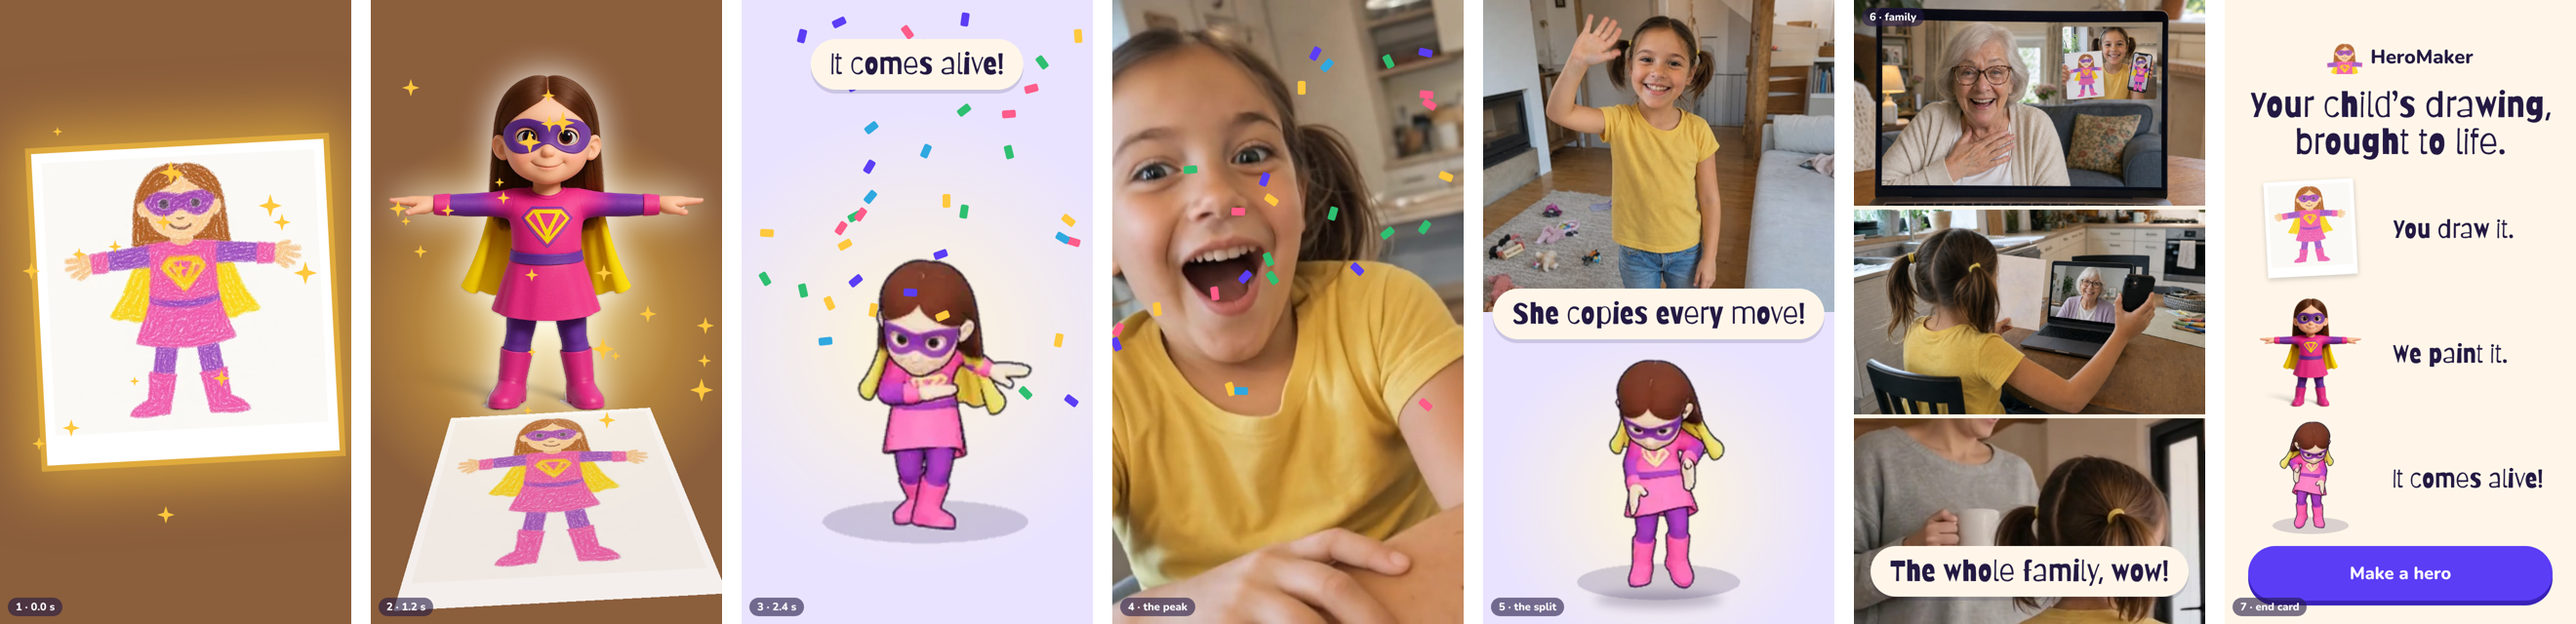
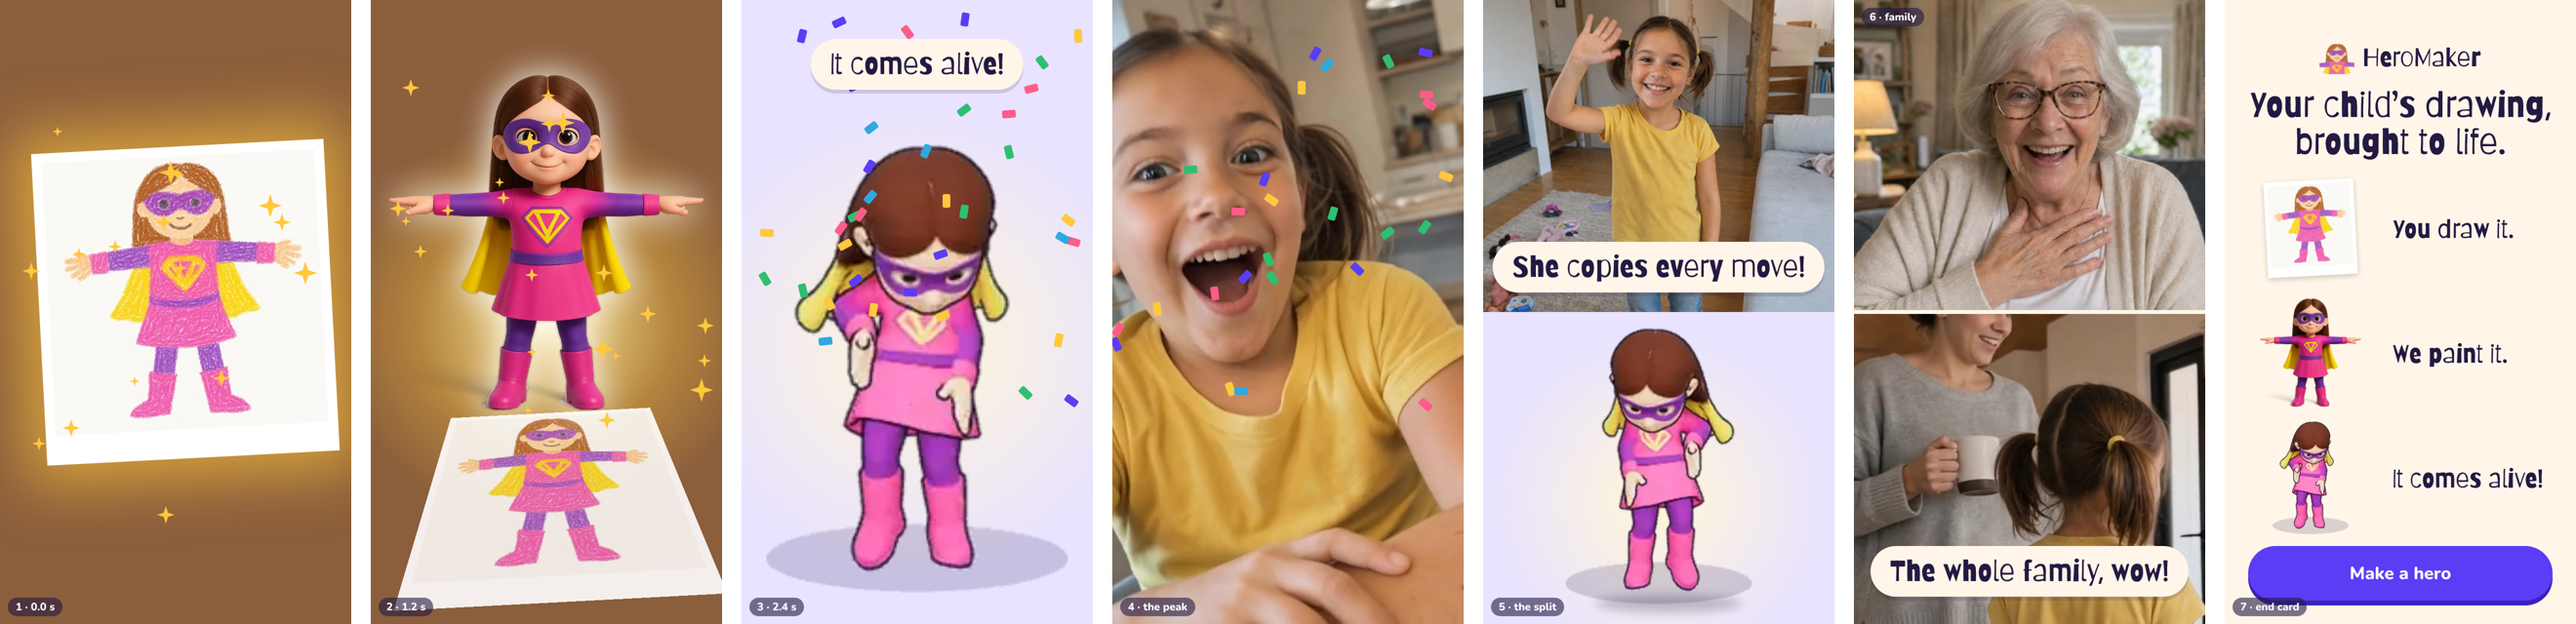
Film direction: fixes from Dana's gate (no frame in frame, split caption, hero size, wordmark)
Claude-Session: https://claude.ai/code/session_01XZmifdbmRRBBAErrtve1b5

diff --git a/marketing/film/direction/f3.html b/marketing/film/direction/f3.html
@@ -1,1 +1,1 @@
-<!doctype html><html><head><meta charset=utf-8><link href="https://fonts.googleapis.com/css2?family=Barriecito&family=Nunito:wght@700;800&display=swap" rel=stylesheet><link rel=stylesheet href="base.css"><style>.lil{background:radial-gradient(circle at 50% 55%,#fff6d6,#e9e3ff 60%)}.v{position:absolute;left:50%;bottom:40px;height:560px;transform:translateX(-50%)}</style></head><body><div class="full lil"></div><img class="v" src="violet-alive.webp"><div class="conf" style="left:98px;top:227px;background:#ff5c8a;transform:rotate(34deg)"></div><div class="conf" style="left:128px;top:195px;background:#2fa8e0;transform:rotate(40deg)"></div><div class="conf" style="left:169px;top:293px;background:#5b3df5;transform:rotate(93deg)"></div><div class="conf" style="left:22px;top:232px;background:#ffc83d;transform:rotate(93deg)"></div><div class="conf" style="left:185px;top:148px;background:#2fa8e0;transform:rotate(24deg)"></div><div class="conf" style="left:224px;top:106px;background:#2fbf71;transform:rotate(53deg)"></div><div class="conf" style="left:58px;top:30px;background:#5b3df5;transform:rotate(14deg)"></div><div class="conf" style="left:86px;top:304px;background:#ffc83d;transform:rotate(155deg)"></div><div class="conf" style="left:20px;top:279px;background:#2fbf71;transform:rotate(149deg)"></div><div class="conf" style="left:127px;top:164px;background:#5b3df5;transform:rotate(31deg)"></div><div class="conf" style="left:270px;top:149px;background:#2fbf71;transform:rotate(166deg)"></div><div class="conf" style="left:102px;top:244px;background:#ffc83d;transform:rotate(61deg)"></div><div class="conf" style="left:224px;top:210px;background:#2fbf71;transform:rotate(9deg)"></div><div class="conf" style="left:112px;top:215px;background:#2fbf71;transform:rotate(63deg)"></div><div class="conf" style="left:331px;top:219px;background:#ffc83d;transform:rotate(127deg)"></div><div class="conf" style="left:96px;top:16px;background:#5b3df5;transform:rotate(65deg)"></div><div class="conf" style="left:129px;top:124px;background:#2fa8e0;transform:rotate(53deg)"></div><div class="conf" style="left:118px;top:213px;background:#ff5c8a;transform:rotate(36deg)"></div><div class="conf" style="left:166px;top:26px;background:#ff5c8a;transform:rotate(144deg)"></div><div class="conf" style="left:59px;top:291px;background:#2fbf71;transform:rotate(167deg)"></div><div class="conf" style="left:334px;top:404px;background:#5b3df5;transform:rotate(126deg)"></div><div class="conf" style="left:198px;top:47px;background:#2fbf71;transform:rotate(53deg)"></div><div class="conf" style="left:293px;top:84px;background:#ff5c8a;transform:rotate(75deg)"></div><div class="conf" style="left:336px;top:241px;background:#ff5c8a;transform:rotate(107deg)"></div><div class="conf" style="left:270px;top:110px;background:#ff5c8a;transform:rotate(86deg)"></div><div class="conf" style="left:200px;top:254px;background:#5b3df5;transform:rotate(71deg)"></div><div class="conf" style="left:321px;top:342px;background:#ffc83d;transform:rotate(11deg)"></div><div class="conf" style="left:202px;top:317px;background:#ffc83d;transform:rotate(68deg)"></div><div class="conf" style="left:341px;top:30px;background:#ffc83d;transform:rotate(176deg)"></div><div class="conf" style="left:325px;top:237px;background:#2fa8e0;transform:rotate(120deg)"></div><div class="conf" style="left:206px;top:199px;background:#ffc83d;transform:rotate(0deg)"></div><div class="conf" style="left:108px;top:80px;background:#5b3df5;transform:rotate(156deg)"></div><div class="conf" style="left:131px;top:59px;background:#2fbf71;transform:rotate(97deg)"></div><div class="conf" style="left:113px;top:281px;background:#5b3df5;transform:rotate(51deg)"></div><div class="conf" style="left:82px;top:343px;background:#2fa8e0;transform:rotate(84deg)"></div><div class="conf" style="left:287px;top:396px;background:#2fbf71;transform:rotate(134deg)"></div><div class="conf" style="left:225px;top:13px;background:#5b3df5;transform:rotate(8deg)"></div><div class="conf" style="left:304px;top:57px;background:#2fbf71;transform:rotate(143deg)"></div><div class="conf" style="left:131px;top:311px;background:#ffc83d;transform:rotate(10deg)"></div><div class="conf" style="left:185px;top:40px;background:#2fa8e0;transform:rotate(2deg)"></div><div class="cap">It comes alive!</div><div class="no">3 · 2.4 s</div></body></html>
+<!doctype html><html><head><meta charset=utf-8><link href="https://fonts.googleapis.com/css2?family=Barriecito&family=Nunito:wght@700;800&display=swap" rel=stylesheet><link rel=stylesheet href="base.css"><style>.lil{background:radial-gradient(circle at 50% 55%,#fff6d6,#e9e3ff 60%)}.v{position:absolute;left:50%;bottom:32px;height:460px;transform:translateX(-50%)}</style></head><body><div class="full lil"></div><img class="v" src="violet-crop.png"><div class="conf" style="left:98px;top:227px;background:#ff5c8a;transform:rotate(34deg)"></div><div class="conf" style="left:128px;top:195px;background:#2fa8e0;transform:rotate(40deg)"></div><div class="conf" style="left:169px;top:293px;background:#5b3df5;transform:rotate(93deg)"></div><div class="conf" style="left:22px;top:232px;background:#ffc83d;transform:rotate(93deg)"></div><div class="conf" style="left:185px;top:148px;background:#2fa8e0;transform:rotate(24deg)"></div><div class="conf" style="left:224px;top:106px;background:#2fbf71;transform:rotate(53deg)"></div><div class="conf" style="left:58px;top:30px;background:#5b3df5;transform:rotate(14deg)"></div><div class="conf" style="left:86px;top:304px;background:#ffc83d;transform:rotate(155deg)"></div><div class="conf" style="left:20px;top:279px;background:#2fbf71;transform:rotate(149deg)"></div><div class="conf" style="left:127px;top:164px;background:#5b3df5;transform:rotate(31deg)"></div><div class="conf" style="left:270px;top:149px;background:#2fbf71;transform:rotate(166deg)"></div><div class="conf" style="left:102px;top:244px;background:#ffc83d;transform:rotate(61deg)"></div><div class="conf" style="left:224px;top:210px;background:#2fbf71;transform:rotate(9deg)"></div><div class="conf" style="left:112px;top:215px;background:#2fbf71;transform:rotate(63deg)"></div><div class="conf" style="left:331px;top:219px;background:#ffc83d;transform:rotate(127deg)"></div><div class="conf" style="left:96px;top:16px;background:#5b3df5;transform:rotate(65deg)"></div><div class="conf" style="left:129px;top:124px;background:#2fa8e0;transform:rotate(53deg)"></div><div class="conf" style="left:118px;top:213px;background:#ff5c8a;transform:rotate(36deg)"></div><div class="conf" style="left:166px;top:26px;background:#ff5c8a;transform:rotate(144deg)"></div><div class="conf" style="left:59px;top:291px;background:#2fbf71;transform:rotate(167deg)"></div><div class="conf" style="left:334px;top:404px;background:#5b3df5;transform:rotate(126deg)"></div><div class="conf" style="left:198px;top:47px;background:#2fbf71;transform:rotate(53deg)"></div><div class="conf" style="left:293px;top:84px;background:#ff5c8a;transform:rotate(75deg)"></div><div class="conf" style="left:336px;top:241px;background:#ff5c8a;transform:rotate(107deg)"></div><div class="conf" style="left:270px;top:110px;background:#ff5c8a;transform:rotate(86deg)"></div><div class="conf" style="left:200px;top:254px;background:#5b3df5;transform:rotate(71deg)"></div><div class="conf" style="left:321px;top:342px;background:#ffc83d;transform:rotate(11deg)"></div><div class="conf" style="left:202px;top:317px;background:#ffc83d;transform:rotate(68deg)"></div><div class="conf" style="left:341px;top:30px;background:#ffc83d;transform:rotate(176deg)"></div><div class="conf" style="left:325px;top:237px;background:#2fa8e0;transform:rotate(120deg)"></div><div class="conf" style="left:206px;top:199px;background:#ffc83d;transform:rotate(0deg)"></div><div class="conf" style="left:108px;top:80px;background:#5b3df5;transform:rotate(156deg)"></div><div class="conf" style="left:131px;top:59px;background:#2fbf71;transform:rotate(97deg)"></div><div class="conf" style="left:113px;top:281px;background:#5b3df5;transform:rotate(51deg)"></div><div class="conf" style="left:82px;top:343px;background:#2fa8e0;transform:rotate(84deg)"></div><div class="conf" style="left:287px;top:396px;background:#2fbf71;transform:rotate(134deg)"></div><div class="conf" style="left:225px;top:13px;background:#5b3df5;transform:rotate(8deg)"></div><div class="conf" style="left:304px;top:57px;background:#2fbf71;transform:rotate(143deg)"></div><div class="conf" style="left:131px;top:311px;background:#ffc83d;transform:rotate(10deg)"></div><div class="conf" style="left:185px;top:40px;background:#2fa8e0;transform:rotate(2deg)"></div><div class="cap">It comes alive!</div><div class="no">3 · 2.4 s</div></body></html>

diff --git a/marketing/film/direction/f1.html b/marketing/film/direction/f1.html
@@ -1,1 +1,1 @@
-<!doctype html><html><head><meta charset=utf-8><link href="https://fonts.googleapis.com/css2?family=Barriecito&family=Nunito:wght@700;800&display=swap" rel=stylesheet><link rel=stylesheet href="base.css"><style>.wood{background:#8b5e3c}.pol{position:absolute;left:40px;top:150px;width:280px;background:#fff;padding:10px 10px 30px;transform:rotate(-3deg);box-shadow:0 0 0 6px rgba(255,200,61,.5),0 0 60px 20px rgba(255,200,61,.65)}.pol img{width:100%;display:block}</style></head><body><div class="full wood"></div><div class="pol"><img src="violet-drawing.webp"></div><div class="spark" style="left:175px;top:172px;width:14px;height:14px"></div><div class="spark" style="left:265px;top:199px;width:24px;height:24px"></div><div class="spark" style="left:54px;top:130px;width:10px;height:10px"></div><div class="spark" style="left:301px;top:268px;width:24px;height:24px"></div><div class="spark" style="left:133px;top:386px;width:10px;height:10px"></div><div class="spark" style="left:161px;top:519px;width:18px;height:18px"></div><div class="spark" style="left:74px;top:254px;width:14px;height:14px"></div><div class="spark" style="left:33px;top:448px;width:14px;height:14px"></div><div class="spark" style="left:159px;top:219px;width:18px;height:18px"></div><div class="spark" style="left:178px;top:268px;width:14px;height:14px"></div><div class="spark" style="left:64px;top:430px;width:18px;height:18px"></div><div class="spark" style="left:218px;top:379px;width:18px;height:18px"></div><div class="spark" style="left:111px;top:246px;width:14px;height:14px"></div><div class="spark" style="left:163px;top:165px;width:24px;height:24px"></div><div class="spark" style="left:23px;top:269px;width:18px;height:18px"></div><div class="spark" style="left:280px;top:219px;width:18px;height:18px"></div><div class="no">1 · 0.0 s</div></body></html>
+<!doctype html><html><head><meta charset=utf-8><link href="https://fonts.googleapis.com/css2?family=Barriecito&family=Nunito:wght@700;800&display=swap" rel=stylesheet><link rel=stylesheet href="base.css"><style>.wood{background:#8b5e3c}.pol{position:absolute;left:40px;top:150px;width:280px;background:#fff;padding:10px 10px 30px;transform:rotate(-3deg);box-shadow:0 0 60px 20px rgba(255,200,61,.65)}.pol img{width:100%;display:block}</style></head><body><div class="full wood"></div><div class="pol"><img src="violet-drawing.webp"></div><div class="spark" style="left:175px;top:172px;width:14px;height:14px"></div><div class="spark" style="left:265px;top:199px;width:24px;height:24px"></div><div class="spark" style="left:54px;top:130px;width:10px;height:10px"></div><div class="spark" style="left:301px;top:268px;width:24px;height:24px"></div><div class="spark" style="left:133px;top:386px;width:10px;height:10px"></div><div class="spark" style="left:161px;top:519px;width:18px;height:18px"></div><div class="spark" style="left:74px;top:254px;width:14px;height:14px"></div><div class="spark" style="left:33px;top:448px;width:14px;height:14px"></div><div class="spark" style="left:159px;top:219px;width:18px;height:18px"></div><div class="spark" style="left:178px;top:268px;width:14px;height:14px"></div><div class="spark" style="left:64px;top:430px;width:18px;height:18px"></div><div class="spark" style="left:218px;top:379px;width:18px;height:18px"></div><div class="spark" style="left:111px;top:246px;width:14px;height:14px"></div><div class="spark" style="left:163px;top:165px;width:24px;height:24px"></div><div class="spark" style="left:23px;top:269px;width:18px;height:18px"></div><div class="spark" style="left:280px;top:219px;width:18px;height:18px"></div><div class="no">1 · 0.0 s</div></body></html>

diff --git a/marketing/film/direction/f7.html b/marketing/film/direction/f7.html
@@ -1,1 +1,1 @@
-<!doctype html><html><head><meta charset=utf-8><link href="https://fonts.googleapis.com/css2?family=Barriecito&family=Nunito:wght@700;800&display=swap" rel=stylesheet><link rel=stylesheet href="base.css"><style>.e{position:absolute;inset:0;display:flex;flex-direction:column;justify-content:space-between;padding:40px 24px 24px}.h{font-family:Barriecito;font-size:36px;line-height:38px;color:#231942;text-align:center}.row{display:flex;flex-direction:column;gap:12px}.row>div{display:flex;align-items:center;gap:20px;font-family:Barriecito;font-size:26px;color:#231942;white-space:nowrap}.row .pic{width:128px;height:116px;display:flex;align-items:center;justify-content:center}.row .pic img{max-width:128px;max-height:116px}.pol{background:#fff;padding:4px 4px 10px;transform:rotate(-3deg);box-shadow:0 2px 6px rgba(0,0,0,.2);width:96px}.pol img{width:100%;display:block}.btn{height:56px;border-radius:999px;background:#5b3df5;color:#fff;font:800 18px Nunito;display:flex;align-items:center;justify-content:center;box-shadow:0 5px 0 #3a22b8}</style></head><body><div class="e"><div style="display:flex;align-items:center;justify-content:center;gap:8px;font:800 20px Nunito;color:#231942"><img src="app-icon.png" style="width:36px;height:36px;border-radius:9px">HeroMaker</div><div class="h">Your child’s drawing,<br>brought to life.</div><div class="row"><div><span class="pic"><span class="pol" style="width:84px"><img src="violet-drawing.webp"></span></span>You draw it.</div><div><span class="pic"><img src="painted.png"></span>We paint it.</div><div><span class="pic"><img src="violet-crop.png"></span>It comes alive!</div></div><div class="btn">Make a hero</div></div><div class="no">7 · end card</div></body></html>
+<!doctype html><html><head><meta charset=utf-8><link href="https://fonts.googleapis.com/css2?family=Barriecito&family=Nunito:wght@700;800&display=swap" rel=stylesheet><link rel=stylesheet href="base.css"><style>.e{position:absolute;inset:0;display:flex;flex-direction:column;justify-content:space-between;padding:40px 24px 24px}.h{font-family:Barriecito;font-size:36px;line-height:38px;color:#231942;text-align:center}.row{display:flex;flex-direction:column;gap:12px}.row>div{display:flex;align-items:center;gap:20px;font-family:Barriecito;font-size:26px;color:#231942;white-space:nowrap}.row .pic{width:128px;height:116px;display:flex;align-items:center;justify-content:center}.row .pic img{max-width:128px;max-height:116px}.pol{background:#fff;padding:4px 4px 10px;transform:rotate(-3deg);box-shadow:0 2px 6px rgba(0,0,0,.2);width:96px}.pol img{width:100%;display:block}.btn{height:56px;border-radius:999px;background:#5b3df5;color:#fff;font:800 18px Nunito;display:flex;align-items:center;justify-content:center;box-shadow:0 5px 0 #3a22b8}</style></head><body><div class="e"><div style="display:flex;align-items:center;justify-content:center;gap:8px;font:26px Barriecito;color:#231942"><img src="app-icon.png" style="width:36px;height:36px;border-radius:9px">HeroMaker</div><div class="h">Your child’s drawing,<br>brought to life.</div><div class="row"><div><span class="pic"><span class="pol" style="width:84px"><img src="violet-drawing.webp"></span></span>You draw it.</div><div><span class="pic"><img src="painted.png"></span>We paint it.</div><div><span class="pic"><img src="violet-crop.png"></span>It comes alive!</div></div><div class="btn">Make a hero</div></div><div class="no">7 · end card</div></body></html>

diff --git a/marketing/film/direction/f6.html b/marketing/film/direction/f6.html
@@ -1,1 +1,1 @@
-<!doctype html><html><head><meta charset=utf-8><link href="https://fonts.googleapis.com/css2?family=Barriecito&family=Nunito:wght@700;800&display=swap" rel=stylesheet><link rel=stylesheet href="base.css"><style>.g{position:absolute;inset:0;display:grid;grid-template-rows:1fr 1fr 1fr;gap:4px;background:#fff6e9}.g div{background-size:cover;background-position:center}</style></head><body><div class="g"><div style="background-image:url(5.2.jpg)"></div><div style="background-image:url(5.1.jpg)"></div><div style="background-image:url(c_26.png);background-position:center 30%"></div></div><div class="cap" style="top:auto;bottom:28px">The whole family, wow!</div><div class="no" style="bottom:auto;top:8px">6 · family</div></body></html>
+<!doctype html><html><head><meta charset=utf-8><link href="https://fonts.googleapis.com/css2?family=Barriecito&family=Nunito:wght@700;800&display=swap" rel=stylesheet><link rel=stylesheet href="base.css"><style>.g{position:absolute;inset:0;display:grid;grid-template-rows:1fr 1fr;gap:4px;background:#fff6e9}.g div{background-size:cover;background-position:center}</style></head><body><div class="g"><div style="background-image:url(grandma.jpg)"></div><div style="background-image:url(c_26.png);background-position:center 30%"></div></div><div class="cap" style="top:auto;bottom:28px">The whole family, wow!</div><div class="no" style="bottom:auto;top:8px">6 · family</div></body></html>

diff --git a/marketing/film/direction/f5.html b/marketing/film/direction/f5.html
@@ -1,7 +1,7 @@
 <!doctype html><html><head><meta charset=utf-8><link href="https://fonts.googleapis.com/css2?family=Barriecito&family=Nunito:wght@700;800&display=swap" rel=stylesheet><link rel=stylesheet href="base.css"><style>
 .top{position:absolute;left:0;top:0;width:360px;height:320px;background:url(maya-top.jpg) center/cover}
 .bot{position:absolute;left:0;top:320px;width:360px;height:320px;background:radial-gradient(circle at 50% 60%,#fff6d6,#e9e3ff 65%)}
-.v{position:absolute;left:50%;bottom:24px;height:248px;transform:translateX(-50%) scaleX(-1)}
-.sh{position:absolute;left:50%;bottom:16px;width:130px;height:18px;margin-left:-65px;border-radius:50%;background:rgba(35,25,66,.25);filter:blur(5px)}
-.cap{top:296px}
+.v{position:absolute;left:50%;bottom:20px;height:284px;transform:translateX(-50%) scaleX(-1)}
+.sh{position:absolute;left:50%;bottom:12px;width:150px;height:18px;margin-left:-65px;border-radius:50%;background:rgba(35,25,66,.25);filter:blur(5px)}
+.cap{top:248px}
 </style></head><body><div class="top"></div><div class="bot"><div class="sh"></div><img class="v" src="violet-crop.png"></div><div class="cap">She copies every move!</div><div class="no">5 · the split</div></body></html>

diff --git a/marketing/film/direction/README.md b/marketing/film/direction/README.md
@@ -9,9 +9,12 @@ shows the 7 beats; each `fN.html` is one 360x640 frame (`node shot.js .` renders
 | 2 | The painting rises out of the page | The magic beat: drawing → hero in one move, warm light rays. |
 | 3 | Violet lands, confetti, "It comes alive!" | Hero fills the frame. One caption. |
 | 4 | Maya's gasp | The emotional peak. Full frame, no caption. |
-| 5 | The split: Maya waves, Violet waves | Top half / bottom half, each full width, 320 px each. No dead space. Tom: use the real staging wave, same move both halves. |
-| 6 | The family: Grandma, Maya's call, Mom | Three stacked full-width rows, Grandma on top. Caption "The whole family, wow!" |
+| 5 | The split: Maya waves, Violet waves | Top half / bottom half, 320 px each, full width. Caption inside the top half. Tom: the real staging wave, the same move in both halves. |
+| 6 | The family: Grandma, Mom | Two full-width rows, Grandma on top. Faces only: no laptop, phone or screen around them (no frame in a frame). Caption "The whole family, wow!" |
 | 7 | End card: the value | Logo, "Your child's drawing, brought to life.", three steps (128 px picture column, text at x 172), full-width "Make a hero" 24 px from the edges and bottom. |
 
 Gate before the PM: frame by frame, the 7 points in `docs/design/PRINCIPLES.md`.
 App screens only from real staging recordings.
+
+The hero cut-outs in f3, f5 and f7 are low-res placeholders. The cut uses the real rendered hero.
+The "N ·" labels at the bottom left are storyboard markers only. They are not in the cut.
